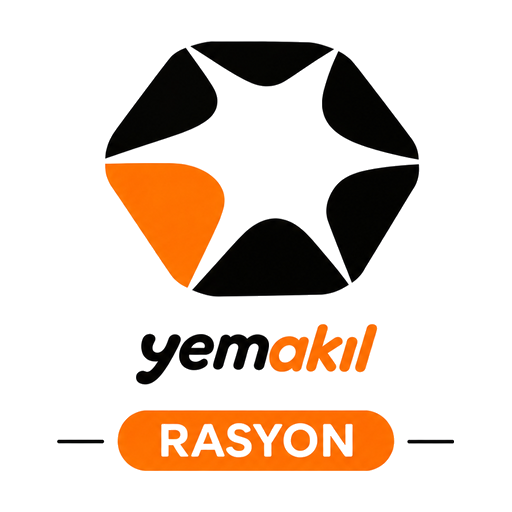
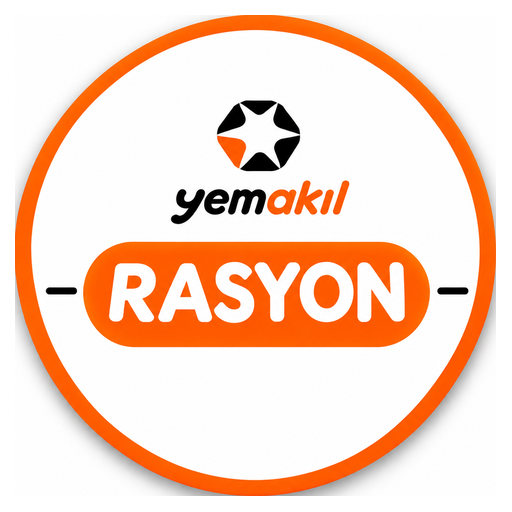
V149: Rasyon telefon simgesi yuvarlak yemakıl RASYON logosu (maskable dahil)
Claude-Session: https://claude.ai/code/session_011RPLY3mbqojdCsn9hLuUDC

diff --git a/index.html b/index.html
@@ -103,7 +103,7 @@ h1{position:sticky;top:0;z-index:15;margin:-16px -14px 12px;padding:calc(14px + 
 main>.s:first-of-type{display:none}
 #sheet:not([hidden])~#tabs{display:none}
 </style></head><body><main>
-<h1 aria-label="YemAkıl Rasyon" style="display:flex;align-items:center;gap:10px;background:#fff;color:#111;border-bottom:1px solid #e3e3e3;padding-top:calc(8px + env(safe-area-inset-top,0px));padding-bottom:8px"><img src="logo-rasyon-120.png" width="42" height="42" alt=""><img src="logo-rasyon-yazi.png" height="44" alt="yemakıl Rasyon" style="height:44px;width:auto"><span style="margin-left:auto;color:#555;font-size:11px;font-weight:400;opacity:.75">v148</span></h1>
+<h1 aria-label="YemAkıl Rasyon" style="display:flex;align-items:center;gap:10px;background:#fff;color:#111;border-bottom:1px solid #e3e3e3;padding-top:calc(8px + env(safe-area-inset-top,0px));padding-bottom:8px"><img src="logo-rasyon-120.png" width="42" height="42" alt=""><img src="logo-rasyon-yazi.png" height="44" alt="yemakıl Rasyon" style="height:44px;width:auto"><span style="margin-left:auto;color:#555;font-size:11px;font-weight:400;opacity:.75">v149</span></h1>
 <p class="s">Hedefleri karşılayan en düşük maliyetli yem karışımını hesaplar. Besin değerleri kuru madde (KM) üzerinden girilir.</p>
 
 <div class="seg" id="seg"></div>

diff --git a/sw.js b/sw.js
@@ -1,4 +1,4 @@
-const C="yemakil-v103";
+const C="yemakil-v104";
 self.addEventListener("install",e=>{self.skipWaiting();e.waitUntil(caches.open(C).then(c=>c.addAll(["./","./index.html","./manifest.json","./icon-192.png","./icon-512.png","./icon-512-maskable.png","./logo-rasyon-120.png","./logo-rasyon-yazi.png","./apple-touch-icon.png","./veri.js","./saglik.js","./siparis.js","./siparis.html","./fiyat.html","./fiyat.js","./manifest-fiyat.json","./manifest-siparis.json","./icon-fiyat-192.png","./icon-fiyat-512.png","./icon-siparis-192.png","./icon-siparis-512.png","./icon-siparis-maskable-512.png","./apple-touch-icon-fiyat.png","./apple-touch-icon-siparis.png","./icon-fiyat-maskable-512.png"].map(u=>new Request(u,{cache:"reload"}))).catch(()=>{})))});
 self.addEventListener("activate",e=>{e.waitUntil(caches.keys().then(ks=>Promise.all(ks.filter(k=>k!==C&&k!=="yk-paylas").map(k=>caches.delete(k)))).then(()=>self.clients.claim()))});
 /* Ağ öncelikli; kendi dosyalarımız tarayıcının HTTP önbelleğini atlayıp sunucuya sorularak alınır (yeni sürüm hemen gelsin, V137); sayfa açılışında ağ 3 sn'de yanıt vermezse önbellek (zayıf kırsal bağlantı). Yalnız kendi dosyalarımız ve yazı tipleri önbelleğe alınır; hatalı yanıt önbelleğe yazılmaz. */

diff --git a/siparis.html b/siparis.html
@@ -105,7 +105,7 @@ main>.s:first-of-type{display:none}
 </style><style>#spPanel{position:static!important;width:auto!important;max-width:none!important;box-shadow:none!important;padding:0 0 24px!important;background:transparent!important;overflow:visible!important}#spClose{display:none!important}</style>
 </head>
 <body><main>
-<h1 style="display:flex;align-items:center;gap:10px"><img src="icon-siparis-192.png" width="30" height="30" alt="" style="vertical-align:-8px;margin-right:9px;border-radius:8px">YemAkıl Sipariş<span style="margin-left:auto;font-size:11px;font-weight:400;opacity:.75">v148</span></h1>
+<h1 style="display:flex;align-items:center;gap:10px"><img src="icon-siparis-192.png" width="30" height="30" alt="" style="vertical-align:-8px;margin-right:9px;border-radius:8px">YemAkıl Sipariş<span style="margin-left:auto;font-size:11px;font-weight:400;opacity:.75">v149</span></h1>
 
 </main>
 <script>

diff --git a/fiyat.html b/fiyat.html
@@ -105,7 +105,7 @@ main>.s:first-of-type{display:none}
 </style><style></style>
 </head>
 <body><main>
-<h1 style="display:flex;align-items:center;gap:10px"><img src="icon-fiyat-192.png" width="30" height="30" alt="" style="vertical-align:-8px;margin-right:9px;border-radius:8px">YemAkıl Fiyatlar<span style="margin-left:auto;font-size:11px;font-weight:400;opacity:.75">v148</span></h1>
+<h1 style="display:flex;align-items:center;gap:10px"><img src="icon-fiyat-192.png" width="30" height="30" alt="" style="vertical-align:-8px;margin-right:9px;border-radius:8px">YemAkıl Fiyatlar<span style="margin-left:auto;font-size:11px;font-weight:400;opacity:.75">v149</span></h1>
 <div id="fpBody"></div>
 </main>
 <script>
